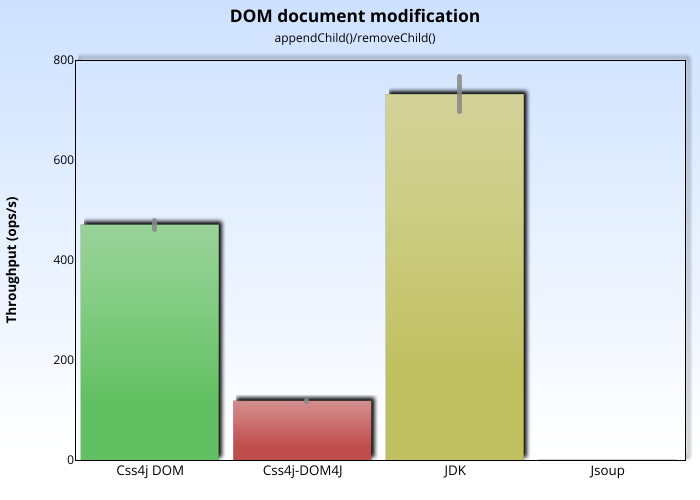
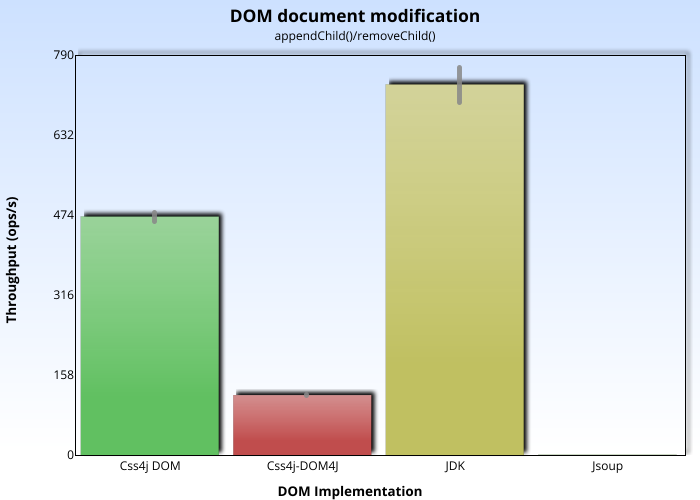
Update DOM change mark.

diff --git a/dom-mark.html b/dom-mark.html
@@ -1387,8 +1387,8 @@ but the implementation was switched to one that is more lightweight (and the ite
 <svg version="1.1" baseprofile="full" xmlns="http://www.w3.org/2000/svg" width="700" height="500" viewbox="0 0 700 500" class="carteitem">
 <title>DOM document modification</title><defs>
 <clipPath id="dom-change-cut-scale-shadow">
-  <rect width="623" height="15" x="71" y="46"></rect>
-  <rect width="8" height="418" x="685" y="42"></rect>
+  <rect width="623" height="15" x="71" y="41"></rect>
+  <rect width="8" height="418" x="685" y="37"></rect>
 </clipPath>
 <linearGradient id="dom-change-background" gradientunits="objectBoundingBox" x1="1" x2="1" y1="0" y2="1">
 <stop stop-color="#cde1ff" offset="0"></stop>
@@ -1403,63 +1403,63 @@ but the implementation was switched to one that is more lightweight (and the ite
 <feOffset in="alpha_blur" dx="3" dy="-3" result="offset_alpha_blur"></feOffset>
 </filter>
 </defs>
-<style>
-text {
-  font-family: "Open Sans",Verdana,sans-serif;
+<style>text {
+    font-family: "Open Sans", Verdana, sans-serif;
 }
-#caption {
-  font-size: 13pt;
-  font-weight: 700;
+#dom-change-caption {
+    font-size: 13pt;
+    font-weight: 700;
 }
-#subcaption {
-  font-size: 9pt;
-  font-weight: 600;
+#dom-change-subcaption {
+    font-size: 9pt;
+    font-weight: 600;
 }
-#x-title,#y-title{
-  font-size: 10pt;
-  font-weight: 700;
+#dom-change-x-title,#dom-change-y-title {
+    font-size: 10pt;
+    font-weight: 700;
 }
-.itemlabel {
-  font-size: 10pt;
-  font-weight: 400;
+.dom-change-itemlabel {
+    font-size: 9pt;
+    font-weight: 400;
 }
-.scaleItem {
-  font-size: 9pt;
-  font-weight: 300;
+.dom-change-scaleItem {
+    font-size: 9pt;
+    font-weight: 300;
 }
 </style>
 <rect width="100%" height="100%" fill="url('#dom-change-background')"></rect>
-<rect width="610" height="400" x="75" y="60" stroke="#000000" fill="rgb(0,0,0)" fill-opacity="0" filter="url('#dom-change-projection')" clip-path="url('#dom-change-cut-scale-shadow')"></rect>
-<rect id="dom-change-chartbox" width="610" height="400" x="75" y="60" stroke-width="1" stroke="#000000" fill="rgb(0,0,0)" fill-opacity="0"></rect>
-<text id="caption" x="355" y="22" text-anchor="middle" fill="black">DOM document modification</text>
-<text id="subcaption" x="355" y="42" text-anchor="middle" fill="black">appendChild()/removeChild()</text>
-<rect width="138.0" height="235.4" x="80.8" y="224.6" stroke="#ffffff" stroke-opacity="0.4" filter="url('#dom-change-projection')"></rect>
-<rect id="dom-change-markChangeDOM" width="138.0" height="235.4" x="80.8" y="224.6" stroke="black" stroke-width="0.4" stroke-opacity="0.3" fill="#61c061"></rect>
-<rect width="138.0" height="235.4" x="80.8" y="224.6" fill="url('#dom-change-reflection')"></rect>
-<line x1="154" x2="154" y1="220.2" y2="229.8" stroke="#888888" stroke-opacity="0.867" stroke-width="5" stroke-linecap="round" stroke-dasharray="1" class="errorbar"></line>
-<text x="150.2" y="475" class="itemlabel" text-anchor="middle" fill="black">Css4j DOM</text>
-<rect width="138.0" height="59.2" x="233.3" y="400.8" stroke="#ffffff" stroke-opacity="0.4" filter="url('#dom-change-projection')"></rect>
-<rect id="dom-change-markChangeDOM4J" width="138.0" height="59.2" x="233.3" y="400.8" stroke="black" stroke-width="0.4" stroke-opacity="0.3" fill="#c04d4d"></rect>
-<rect width="138.0" height="59.2" x="233.3" y="400.8" fill="url('#dom-change-reflection')"></rect>
-<line x1="306.5" x2="306.5" y1="400.2" y2="401.8" stroke="#888888" stroke-opacity="0.867" stroke-width="5" stroke-linecap="round" stroke-dasharray="1" class="errorbar"></line>
-<text x="302.7" y="475" class="itemlabel" text-anchor="middle" fill="black">Css4j-DOM4J</text>
-<rect width="138.0" height="365.9" x="385.8" y="94.1" stroke="#ffffff" stroke-opacity="0.4" filter="url('#dom-change-projection')"></rect>
-<rect id="dom-change-markChangeJdk" width="138.0" height="365.9" x="385.8" y="94.1" stroke="black" stroke-width="0.4" stroke-opacity="0.3" fill="#c0c061"></rect>
-<rect width="138.0" height="365.9" x="385.8" y="94.1" fill="url('#dom-change-reflection')"></rect>
-<line x1="459" x2="459" y1="76.6" y2="111.4" stroke="#888888" stroke-opacity="0.867" stroke-width="5" stroke-linecap="round" stroke-dasharray="1" class="errorbar"></line>
-<text x="455.2" y="475" class="itemlabel" text-anchor="middle" fill="black">JDK</text>
-<rect width="138.0" height="0.3" x="538.3" y="459.7" stroke="#ffffff" stroke-opacity="0.4" filter="url('#dom-change-projection')"></rect>
-<rect id="dom-change-markChangeJsoup" width="138.0" height="0.3" x="538.3" y="459.7" stroke="black" stroke-width="0.4" stroke-opacity="0.3" fill="#a2d87d"></rect>
-<rect width="138.0" height="0.3" x="538.3" y="459.7" fill="url('#dom-change-reflection')"></rect>
-<line x1="611.5" x2="611.5" y1="460" y2="460" stroke="#888888" stroke-opacity="0.867" stroke-width="5" stroke-linecap="round" stroke-dasharray="1" class="errorbar"></line>
-<text x="607.7" y="475" class="itemlabel" text-anchor="middle" fill="black">Jsoup</text>
-<text x="74" y="64" class="scaleitem" text-anchor="end">800</text>
-<text x="74" y="164" class="scaleitem" text-anchor="end">600</text>
-<text x="74" y="264" class="scaleitem" text-anchor="end">400</text>
-<text x="74" y="364" class="scaleitem" text-anchor="end">200</text>
-<text x="74" y="464" class="scaleitem" text-anchor="end">0</text>
-<text id="y-title" x="16" y="260" text-anchor="middle" fill="black" transform="rotate(270,16,260)">Throughput (ops/s)</text>
-<text id="x-title" x="350" y="496" text-anchor="middle" fill="black"></text>
+<rect width="610" height="400" x="75" y="55" stroke="#000000" fill="rgb(0,0,0)" fill-opacity="0" filter="url('#dom-change-projection')" clip-path="url('#dom-change-cut-scale-shadow')"></rect>
+<rect id="dom-change-chartbox" width="610" height="400" x="75" y="55" stroke-width="1" stroke="#000000" fill="rgb(0,0,0)" fill-opacity="0"></rect>
+<text id="dom-change-caption" x="355" y="22" text-anchor="middle" fill="black">DOM document modification</text>
+<text id="dom-change-subcaption" x="355" y="40" text-anchor="middle" fill="black">appendChild()/removeChild()</text>
+<rect width="138.0" height="238.4" x="80.8" y="216.6" stroke="#ffffff" stroke-opacity="0.4" filter="url('#dom-change-projection')"></rect>
+<rect id="dom-change-markChangeDOM" width="138.0" height="238.4" x="80.8" y="216.6" stroke="black" stroke-width="0.4" stroke-opacity="0.3" fill="#61c061"></rect>
+<rect width="138.0" height="238.4" x="80.8" y="216.6" fill="url('#dom-change-reflection')"></rect>
+<line x1="154" x2="154" y1="212.2" y2="221.8" stroke="#888888" stroke-opacity="0.867" stroke-width="5" stroke-linecap="round" stroke-dasharray="1" class="errorbar"></line>
+<text x="150.2" y="470" class="itemlabel" text-anchor="middle" fill="black">Css4j DOM</text>
+<rect width="138.0" height="60" x="233.3" y="395" stroke="#ffffff" stroke-opacity="0.4" filter="url('#dom-change-projection')"></rect>
+<rect id="dom-change-markChangeDOM4J" width="138.0" height="60" x="233.3" y="395" stroke="black" stroke-width="0.4" stroke-opacity="0.3" fill="#c04d4d"></rect>
+<rect width="138.0" height="60" x="233.3" y="395" fill="url('#dom-change-reflection')"></rect>
+<line x1="306.5" x2="306.5" y1="394.2" y2="395.8" stroke="#888888" stroke-opacity="0.867" stroke-width="5" stroke-linecap="round" stroke-dasharray="1" class="errorbar"></line>
+<text x="302.7" y="470" class="itemlabel" text-anchor="middle" fill="black">Css4j-DOM4J</text>
+<rect width="138.0" height="370.5" x="385.8" y="84.5" stroke="#ffffff" stroke-opacity="0.4" filter="url('#dom-change-projection')"></rect>
+<rect id="dom-change-markChangeJdk" width="138.0" height="370.5" x="385.8" y="84.5" stroke="black" stroke-width="0.4" stroke-opacity="0.3" fill="#c0c061"></rect>
+<rect width="138.0" height="370.5" x="385.8" y="84.5" fill="url('#dom-change-reflection')"></rect>
+<line x1="459" x2="459" y1="67.4" y2="102.6" stroke="#888888" stroke-opacity="0.867" stroke-width="5" stroke-linecap="round" stroke-dasharray="1" class="errorbar"></line>
+<text x="455.2" y="470" class="itemlabel" text-anchor="middle" fill="black">JDK</text>
+<rect width="138.0" height="0.3" x="538.3" y="454.7" stroke="#ffffff" stroke-opacity="0.4" filter="url('#dom-change-projection')"></rect>
+<rect id="dom-change-markChangeJsoup" width="138.0" height="0.3" x="538.3" y="454.7" stroke="black" stroke-width="0.4" stroke-opacity="0.3" fill="#a2d87d"></rect>
+<rect width="138.0" height="0.3" x="538.3" y="454.7" fill="url('#dom-change-reflection')"></rect>
+<line x1="611.5" x2="611.5" y1="455" y2="455" stroke="#888888" stroke-opacity="0.867" stroke-width="5" stroke-linecap="round" stroke-dasharray="1" class="errorbar"></line>
+<text x="607.7" y="470" class="itemlabel" text-anchor="middle" fill="black">Jsoup</text>
+<text x="74" y="59" class="scaleitem" text-anchor="end">790</text>
+<text x="74" y="139" class="scaleitem" text-anchor="end">632</text>
+<text x="74" y="219" class="scaleitem" text-anchor="end">474</text>
+<text x="74" y="299" class="scaleitem" text-anchor="end">316</text>
+<text x="74" y="379" class="scaleitem" text-anchor="end">158</text>
+<text x="74" y="459" class="scaleitem" text-anchor="end">0</text>
+<text id="dom-change-y-title" x="16" y="260" text-anchor="middle" fill="black" transform="rotate(270,16,260)">Throughput (ops/s)</text>
+<text id="dom-change-x-title" x="350" y="496" text-anchor="middle" fill="black">DOM Implementation</text>
 <image src="benchmark/dom-change.png" xlink:href=""></image></svg>
 <p>Numeric results (higher is better):</p>
 <table class="normaltbl carteitem">
